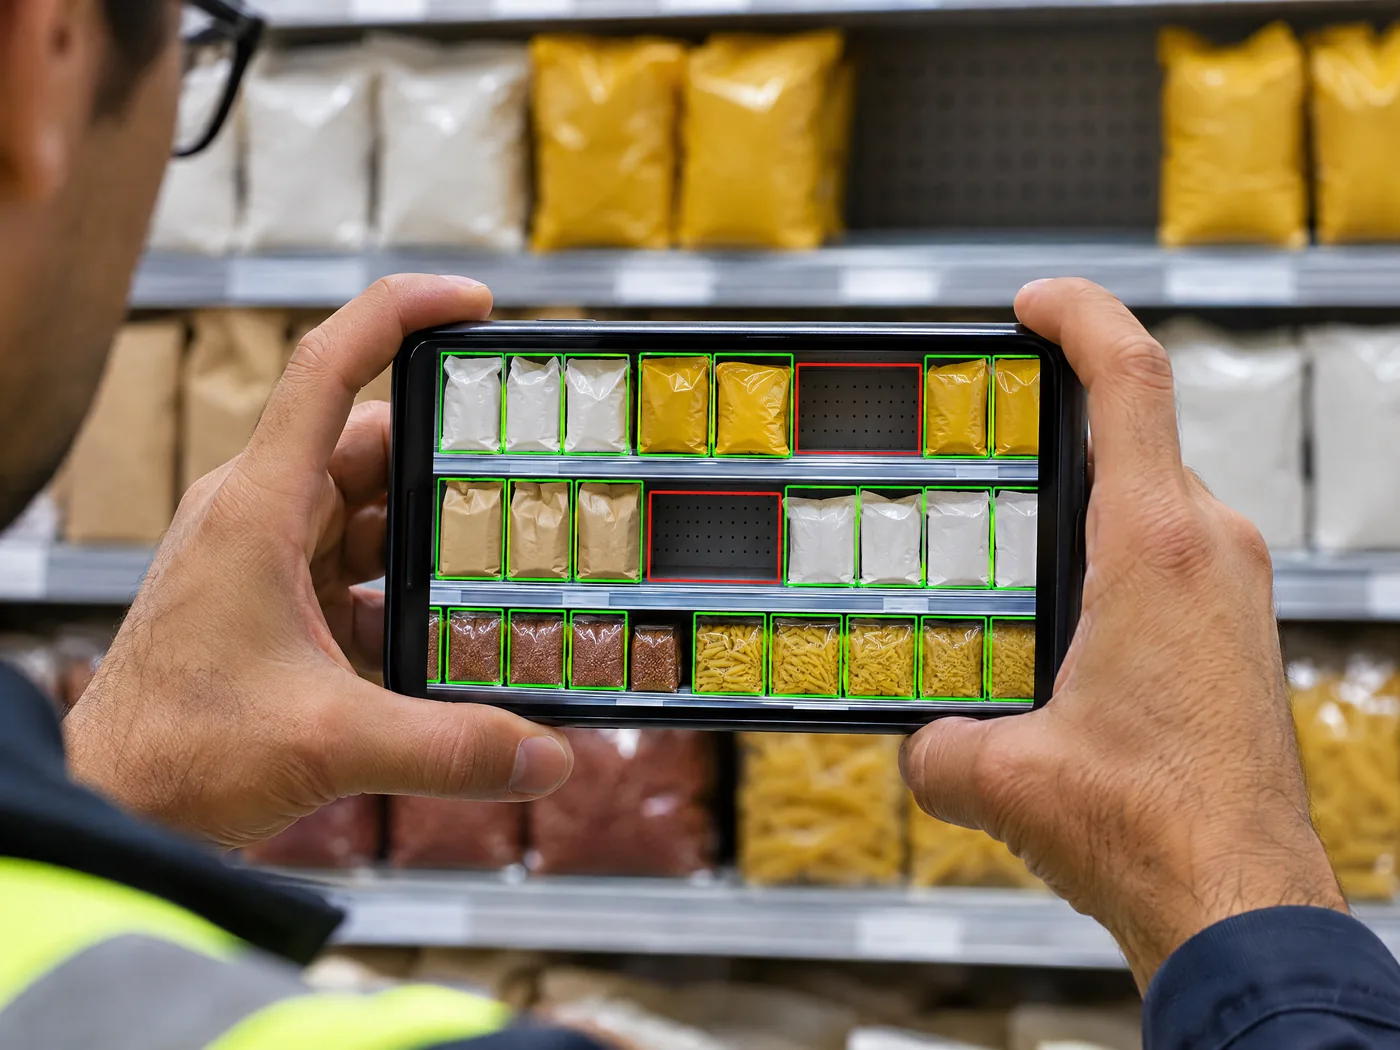
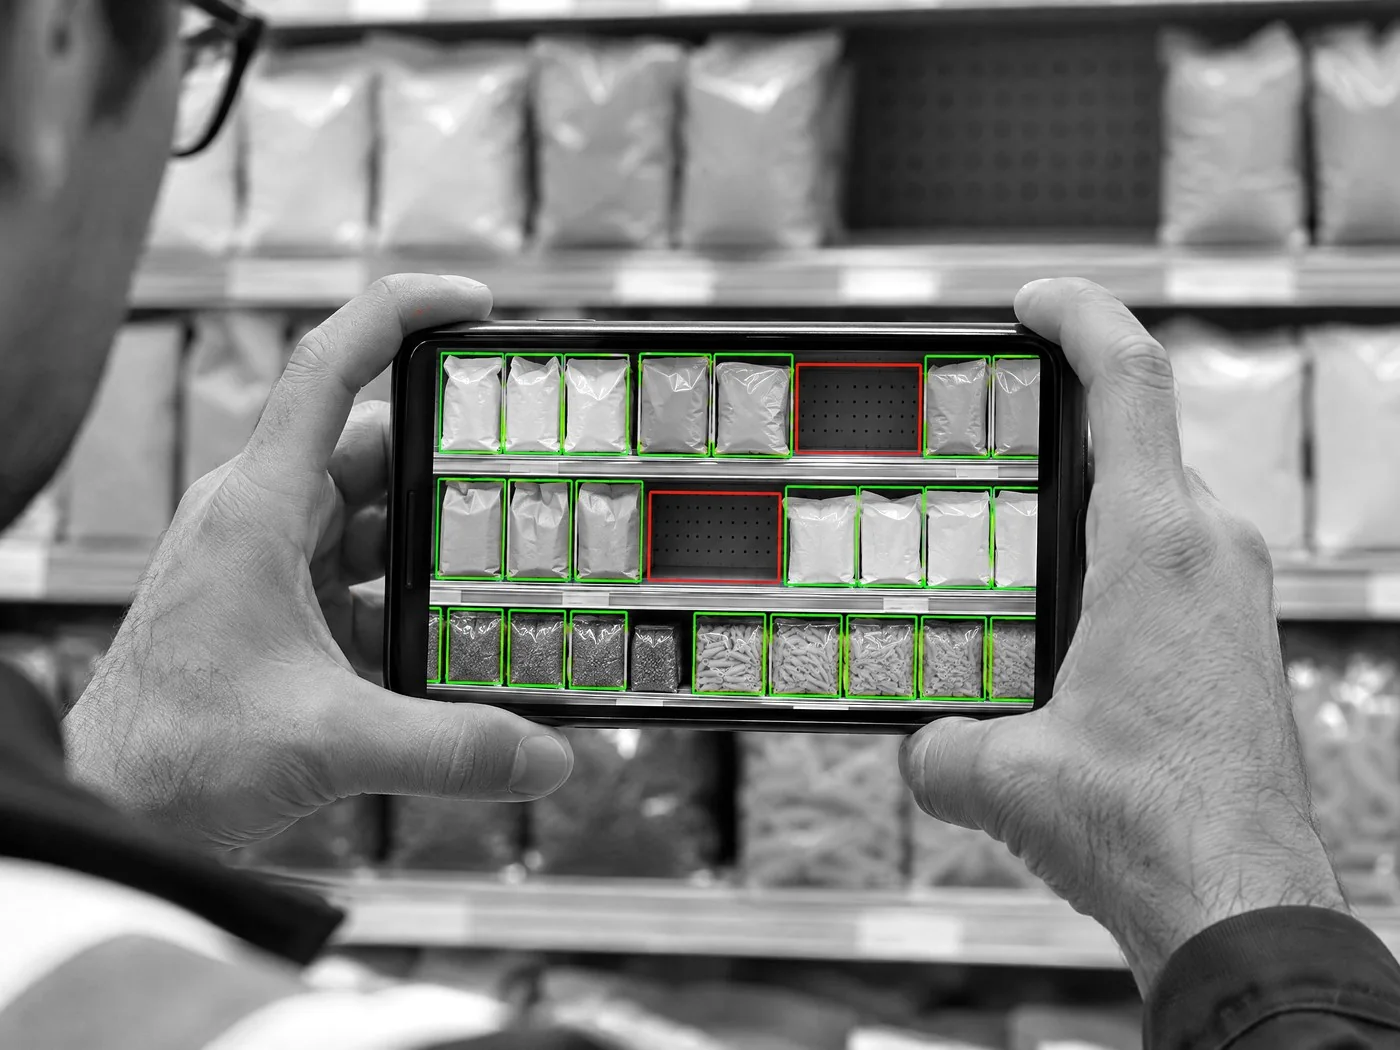
Shelf-audit photo in black and white, keeping only the green and red outlines

diff --git a/assets/css/main.css b/assets/css/main.css
@@ -963,7 +963,7 @@ h4{font-size:1.125rem;line-height:1.5}
 @media (max-width:980px){.hcard .hcard-media{aspect-ratio:4/2.8}}
 /* ---------- proof photograph ---------- */
 .proof-shot{margin:0;border-radius:20px;overflow:hidden;border:1px solid rgba(255,255,255,.14);aspect-ratio:16/10;background:#100F0F}
-.proof-shot img{inline-size:100%;block-size:100%;object-fit:cover;object-position:50% 45%;filter:saturate(.72) contrast(1.06)}
+.proof-shot img{inline-size:100%;block-size:100%;object-fit:cover;object-position:50% 45%}
 .proof-shot + .proof-stats{margin-top:clamp(20px,2.4vw,32px)}
 [lang="ar"] .pl-word span{padding-block:.1em .3em}
 
